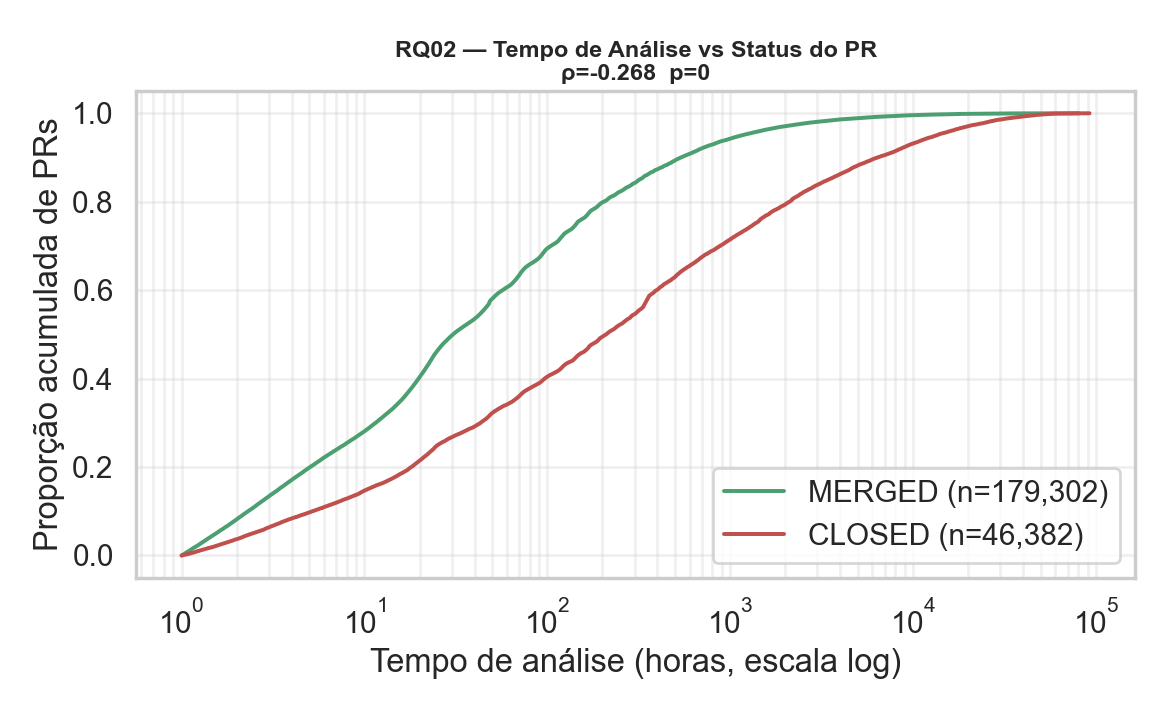
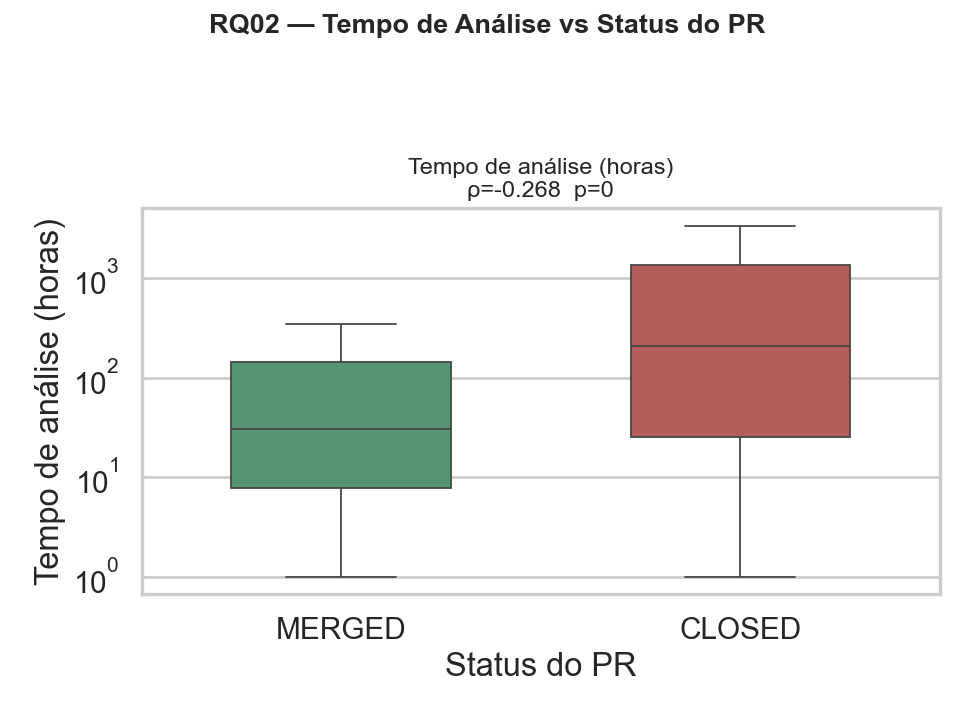
novos plots

Changed region(s): [[0.0308, 0.0, 0.9846, 0.9538], [0.5231, 0.4308, 0.5538, 0.4615], [0.4923, 0.4615, 0.5231, 0.4923]]

diff --git a/Laboratorios/Lab-03/plots_rqs.py b/Laboratorios/Lab-03/plots_rqs.py
@@ -1,15 +1,12 @@
 """Lab03S03 - Gráficos para as Questões de Pesquisa (RQ 01 a RQ 08).
 
-Para cada RQ usamos a visualização mais adequada à pergunta:
+Dois padrões de gráfico, escolhidos pela legibilidade:
 
-  RQ 01 (Tamanho × Status)        -> violin plot   (compara distribuições completas)
-  RQ 02 (Tempo × Status)          -> ECDF          (compara distribuições acumuladas)
-  RQ 03 (Descrição × Status)      -> histograma sobreposto + KDE
-  RQ 04 (Interações × Status)     -> taxa de merge por faixa (barplot)
-  RQ 05 (Tamanho × Nº Revisões)   -> lineplot mediana + banda IQR
-  RQ 06 (Tempo × Nº Revisões)     -> hexbin + linha de mediana
-  RQ 07 (Descrição × Nº Revisões) -> barplot horizontal das medianas por faixa
-  RQ 08 (Interações × Nº Revisões)-> heatmap (participantes × revisões)
+  RQ 01-04 (status do PR):
+      Boxplot MERGED vs CLOSED para cada métrica (escala log onde aplicável).
+
+  RQ 05-08 (nº de revisões):
+      Lineplot da mediana com banda IQR (Q1-Q3) por faixa de reviews_count.
 
 Lê `data/dataset_prs.csv` e (opcional) `data/rqs_correlacoes.csv` para
 anotar ρ de Spearman e p-valor nos títulos.
@@ -30,6 +27,32 @@ INPUT_CSV = DATA_DIR / "dataset_prs.csv"
 CORR_CSV = DATA_DIR / "rqs_correlacoes.csv"
 
 PALETTE_STATUS = {"MERGED": "#4c9f70", "CLOSED": "#c0504d"}
+
+# (metrica, label, log_y)
+M_TAMANHO = [
+    ("files_changed", "Arquivos alterados", True),
+    ("additions",     "Linhas adicionadas", True),
+    ("deletions",     "Linhas removidas",   True),
+]
+M_TEMPO       = [("analysis_time_hours", "Tempo de análise (horas)", True)]
+M_DESCRICAO   = [("body_length",         "Caracteres na descrição",  True)]
+M_INTERACOES  = [
+    ("participants", "Participantes", False),
+    ("comments",     "Comentários",   True),
+]
+
+RQS_STATUS = [
+    ("RQ01", "Tamanho",          M_TAMANHO),
+    ("RQ02", "Tempo de Análise", M_TEMPO),
+    ("RQ03", "Descrição",        M_DESCRICAO),
+    ("RQ04", "Interações",       M_INTERACOES),
+]
+RQS_REVIEWS = [
+    ("RQ05", "Tamanho",          M_TAMANHO),
+    ("RQ06", "Tempo de Análise", M_TEMPO),
+    ("RQ07", "Descrição",        M_DESCRICAO),
+    ("RQ08", "Interações",       M_INTERACOES),
+]
 
 
 def carrega_dataset(path):
@@ -62,10 +85,8 @@ def faixas_reviews(s):
     return pd.cut(s, bins=bins, labels=labels, right=True, include_lowest=True)
 
 
-# ----------------------------- Overview --------------------------------------
-
 def plot_overview_status(df, out_dir):
-    fig, ax = plt.subplots(figsize=(6, 4))
+    fig, ax = plt.subplots(figsize=(6.5, 4.5))
     counts = df["status_label"].value_counts().reindex(["MERGED", "CLOSED"])
     bars = ax.bar(counts.index, counts.values,
                   color=[PALETTE_STATUS["MERGED"], PALETTE_STATUS["CLOSED"]])
@@ -84,261 +105,71 @@ def plot_overview_status(df, out_dir):
     print(f"  -> {out_path.name}")
 
 
-# ----------------------------- RQ 01: violin ---------------------------------
-
-def plot_rq01_violin(df, corr_df, out_dir):
-    metricas = [
-        ("files_changed", "Arquivos alterados"),
-        ("additions",     "Linhas adicionadas"),
-        ("deletions",     "Linhas removidas"),
-    ]
-    fig, axes = plt.subplots(1, 3, figsize=(16, 5.5))
-    for ax, (col, label) in zip(axes, metricas):
+def plot_status(df, rq, dimensao, metricas, corr_df, out_dir):
+    n = len(metricas)
+    width = max(7.5, 5.8 * n)
+    fig, axes = plt.subplots(1, n, figsize=(width, 5.5), squeeze=False)
+    for ax, (col, label, logscale) in zip(axes[0], metricas):
         sub = df[[col, "status_label"]].copy()
-        sub = sub[sub[col] > 0]
-        sub["log"] = np.log10(sub[col])
-        sns.violinplot(
-            data=sub, x="status_label", y="log", ax=ax,
-            order=["MERGED", "CLOSED"], hue="status_label",
-            legend=False, palette=PALETTE_STATUS,
-            inner="quartile", cut=0,
+        if logscale:
+            sub = sub[sub[col] > 0]
+        sns.boxplot(
+            data=sub, x="status_label", y=col, ax=ax,
+            order=["MERGED", "CLOSED"], hue="status_label", legend=False,
+            palette=PALETTE_STATUS, showfliers=False, width=0.55,
         )
+        if logscale:
+            ax.set_yscale("log")
         ax.set_xlabel("Status do PR")
-        ax.set_ylabel(f"log10({label})")
-        ax.set_title(f"{label}{rho_label(corr_df, 'RQ01', col)}", fontsize=13)
-    fig.suptitle("RQ01 — Tamanho vs Status do PR", fontsize=15, fontweight="bold")
-    fig.tight_layout(rect=[0, 0, 1, 0.93])
-    out = out_dir / "rq01_tamanho_status.png"
-    fig.savefig(out, dpi=130); plt.close(fig); print(f"  -> {out.name}")
-
-
-# ----------------------------- RQ 02: ECDF -----------------------------------
-
-def plot_rq02_ecdf(df, corr_df, out_dir):
-    fig, ax = plt.subplots(figsize=(9, 5.5))
-    sub = df[df["analysis_time_hours"] > 0].copy()
-    for status, color in PALETTE_STATUS.items():
-        x = np.sort(sub.loc[sub["status_label"] == status, "analysis_time_hours"].values)
-        y = np.arange(1, len(x) + 1) / len(x)
-        ax.plot(x, y, label=f"{status} (n={len(x):,})", color=color, lw=2.2)
-    ax.set_xscale("log")
-    ax.set_xlabel("Tempo de análise (horas, escala log)")
-    ax.set_ylabel("Proporção acumulada de PRs")
-    ax.set_title(
-        f"RQ02 — Tempo de Análise vs Status do PR{rho_label(corr_df, 'RQ02', 'analysis_time_hours')}",
-        fontsize=13, fontweight="bold",
-    )
-    ax.legend(loc="lower right")
-    ax.grid(True, which="both", alpha=0.3)
-    fig.tight_layout()
-    out = out_dir / "rq02_tempo_de_análise_status.png"
-    fig.savefig(out, dpi=130); plt.close(fig); print(f"  -> {out.name}")
-
-
-# ----------------------------- RQ 03: histograma -----------------------------
-
-def plot_rq03_hist(df, corr_df, out_dir):
-    fig, ax = plt.subplots(figsize=(9, 5.5))
-    sub = df[df["body_length"] > 0].copy()
-    sub["log_body"] = np.log10(sub["body_length"])
-    for status, color in PALETTE_STATUS.items():
-        data = sub.loc[sub["status_label"] == status, "log_body"]
-        ax.hist(data, bins=50, density=True, alpha=0.45,
-                label=f"{status} (mediana={int(10**data.median())})",
-                color=color)
-    ax.set_xlabel("log10(caracteres na descrição)")
-    ax.set_ylabel("Densidade")
-    ax.set_title(
-        f"RQ03 — Descrição vs Status do PR{rho_label(corr_df, 'RQ03', 'body_length')}",
-        fontsize=13, fontweight="bold",
-    )
-    ax.legend()
-    fig.tight_layout()
-    out = out_dir / "rq03_descrição_status.png"
-    fig.savefig(out, dpi=130); plt.close(fig); print(f"  -> {out.name}")
-
-
-# ----------------------------- RQ 04: taxa de merge --------------------------
-
-def plot_rq04_taxa_merge(df, corr_df, out_dir):
-    """Taxa de merge por faixa de participantes / comentários."""
-    df = df.copy()
-    df["merged"] = (df["state"] == "MERGED").astype(int)
-
-    bins_part = [0, 1, 2, 3, 5, 10, np.inf]
-    lab_part = ["1", "2", "3", "4-5", "6-10", "11+"]
-    df["faixa_part"] = pd.cut(df["participants"], bins=bins_part,
-                              labels=lab_part, include_lowest=True)
-    df["faixa_com"] = pd.cut(df["comments"], bins=[-1, 0, 1, 3, 5, 10, np.inf],
-                             labels=["0", "1", "2-3", "4-5", "6-10", "11+"])
-
-    fig, axes = plt.subplots(1, 2, figsize=(14, 5.5))
-    for ax, faixa_col, xlabel, rq_metric in [
-        (axes[0], "faixa_part", "Nº de participantes",  "participants"),
-        (axes[1], "faixa_com",  "Nº de comentários",    "comments"),
-    ]:
-        agg = df.groupby(faixa_col, observed=True).agg(
-            taxa=("merged", "mean"),
-            n=("merged", "size"),
-        ).reset_index()
-        bars = ax.bar(agg[faixa_col].astype(str), agg["taxa"] * 100,
-                      color="#4c9f70", edgecolor="white")
-        for b, taxa, n in zip(bars, agg["taxa"], agg["n"]):
-            ax.text(b.get_x() + b.get_width() / 2, taxa * 100 + 1,
-                    f"{taxa:.0%}\n(n={n:,})",
-                    ha="center", va="bottom", fontsize=9)
-        ax.set_ylim(0, 105)
-        ax.set_xlabel(xlabel)
-        ax.set_ylabel("% de PRs com MERGE")
-        ax.set_title(f"{xlabel}{rho_label(corr_df, 'RQ04', rq_metric)}", fontsize=13)
-    fig.suptitle("RQ04 — Interações vs Status do PR (taxa de merge)",
+        ax.set_ylabel(label)
+        ax.set_title(f"{label}{rho_label(corr_df, rq, col)}", fontsize=13)
+    fig.suptitle(f"{rq} — {dimensao} vs Status do PR",
                  fontsize=15, fontweight="bold")
-    fig.tight_layout(rect=[0, 0, 1, 0.93])
-    out = out_dir / "rq04_interações_status.png"
-    fig.savefig(out, dpi=130); plt.close(fig); print(f"  -> {out.name}")
+    fig.tight_layout(rect=[0, 0, 1, 0.92])
+    out = out_dir / f"{rq.lower()}_{dimensao.lower().replace(' ', '_')}_status.png"
+    fig.savefig(out, dpi=130)
+    plt.close(fig)
+    print(f"  -> {out.name}")
 
 
-# ----------------------------- RQ 05: linha + IQR ----------------------------
-
-def plot_rq05_linha_iqr(df, corr_df, out_dir):
+def plot_reviews(df, rq, dimensao, metricas, corr_df, out_dir):
     df = df.copy()
     df["faixa"] = faixas_reviews(df["reviews_count"])
     df = df.dropna(subset=["faixa"])
-    metricas = [
-        ("files_changed", "Arquivos alterados"),
-        ("additions",     "Linhas adicionadas"),
-        ("deletions",     "Linhas removidas"),
-    ]
-    fig, axes = plt.subplots(1, 3, figsize=(16, 5.5))
-    for ax, (col, label) in zip(axes, metricas):
-        agg = df.groupby("faixa", observed=True)[col].quantile(
-            [0.25, 0.5, 0.75]).unstack()
+
+    n = len(metricas)
+    width = max(7.5, 5.8 * n)
+    fig, axes = plt.subplots(1, n, figsize=(width, 5.5), squeeze=False)
+    for ax, (col, label, logscale) in zip(axes[0], metricas):
+        agg = (df.groupby("faixa", observed=True)[col]
+                 .quantile([0.25, 0.5, 0.75]).unstack())
         agg.columns = ["q25", "q50", "q75"]
         x = np.arange(len(agg))
         ax.fill_between(x, agg["q25"], agg["q75"],
                         alpha=0.3, color="#4878a6", label="IQR (Q1–Q3)")
-        ax.plot(x, agg["q50"], "o-", color="#1f3a5f", lw=2.5,
-                markersize=8, label="Mediana")
+        ax.plot(x, agg["q50"], "o-", color="#1f3a5f",
+                lw=2.5, markersize=8, label="Mediana")
+        for xi, m in zip(x, agg["q50"]):
+            ax.annotate(f"{m:.0f}", (xi, m),
+                        textcoords="offset points", xytext=(0, 9),
+                        ha="center", fontsize=9, color="#1f3a5f")
         ax.set_xticks(x)
         ax.set_xticklabels(agg.index)
-        ax.set_yscale("log")
+        if logscale:
+            ax.set_yscale("log")
         ax.set_xlabel("Número de revisões")
         ax.set_ylabel(label)
-        ax.set_title(f"{label}{rho_label(corr_df, 'RQ05', col)}", fontsize=13)
+        ax.set_title(f"{label}{rho_label(corr_df, rq, col)}", fontsize=13)
         ax.legend(loc="upper left", fontsize=9)
         ax.grid(True, which="both", alpha=0.3)
-    fig.suptitle("RQ05 — Tamanho vs Nº de Revisões",
+    fig.suptitle(f"{rq} — {dimensao} vs Nº de Revisões",
                  fontsize=15, fontweight="bold")
-    fig.tight_layout(rect=[0, 0, 1, 0.93])
-    out = out_dir / "rq05_tamanho_reviews.png"
-    fig.savefig(out, dpi=130); plt.close(fig); print(f"  -> {out.name}")
+    fig.tight_layout(rect=[0, 0, 1, 0.92])
+    out = out_dir / f"{rq.lower()}_{dimensao.lower().replace(' ', '_')}_reviews.png"
+    fig.savefig(out, dpi=130)
+    plt.close(fig)
+    print(f"  -> {out.name}")
 
-
-# ----------------------------- RQ 06: hexbin ---------------------------------
-
-def plot_rq06_hexbin(df, corr_df, out_dir):
-    sub = df[(df["analysis_time_hours"] > 0) & (df["reviews_count"] > 0)].copy()
-    sub["log_time"] = np.log10(sub["analysis_time_hours"])
-    sub["log_rev"] = np.log10(sub["reviews_count"])
-
-    fig, ax = plt.subplots(figsize=(9, 6))
-    hb = ax.hexbin(sub["log_rev"], sub["log_time"],
-                   gridsize=40, cmap="viridis", mincnt=1, bins="log")
-    cbar = fig.colorbar(hb, ax=ax)
-    cbar.set_label("Nº de PRs (escala log)")
-
-    # linha de mediana por faixa
-    sub["faixa"] = faixas_reviews(sub["reviews_count"])
-    med = sub.groupby("faixa", observed=True).agg(
-        x=("log_rev", "median"),
-        y=("log_time", "median"),
-    ).reset_index()
-    ax.plot(med["x"], med["y"], "o-", color="#ff6b35",
-            lw=2.5, markersize=9, label="Mediana por faixa")
-
-    ax.set_xlabel("log10(número de revisões)")
-    ax.set_ylabel("log10(tempo de análise em horas)")
-    ax.set_title(
-        f"RQ06 — Tempo de Análise vs Nº de Revisões"
-        f"{rho_label(corr_df, 'RQ06', 'analysis_time_hours')}",
-        fontsize=13, fontweight="bold",
-    )
-    ax.legend(loc="upper left")
-    fig.tight_layout()
-    out = out_dir / "rq06_tempo_de_análise_reviews.png"
-    fig.savefig(out, dpi=130); plt.close(fig); print(f"  -> {out.name}")
-
-
-# ----------------------------- RQ 07: barplot horizontal ---------------------
-
-def plot_rq07_barh(df, corr_df, out_dir):
-    df = df.copy()
-    df["faixa"] = faixas_reviews(df["reviews_count"])
-    df = df.dropna(subset=["faixa"])
-    agg = df.groupby("faixa", observed=True)["body_length"].agg(
-        mediana="median", media="mean", n="size").reset_index()
-
-    fig, ax = plt.subplots(figsize=(9, 5.5))
-    y = np.arange(len(agg))
-    h = 0.38
-    ax.barh(y - h/2, agg["mediana"], h, label="Mediana",
-            color="#4878a6", edgecolor="white")
-    ax.barh(y + h/2, agg["media"],   h, label="Média",
-            color="#a0c4e0", edgecolor="white")
-    for yi, med, mean, n in zip(y, agg["mediana"], agg["media"], agg["n"]):
-        ax.text(med, yi - h/2, f" {int(med)}", va="center", fontsize=9)
-        ax.text(mean, yi + h/2, f" {int(mean)} (n={n:,})", va="center", fontsize=9)
-    ax.set_yticks(y)
-    ax.set_yticklabels(agg["faixa"])
-    ax.invert_yaxis()
-    ax.set_xlabel("Caracteres na descrição")
-    ax.set_ylabel("Número de revisões")
-    ax.set_title(
-        f"RQ07 — Descrição vs Nº de Revisões"
-        f"{rho_label(corr_df, 'RQ07', 'body_length')}",
-        fontsize=13, fontweight="bold",
-    )
-    ax.legend(loc="lower right")
-    fig.tight_layout()
-    out = out_dir / "rq07_descrição_reviews.png"
-    fig.savefig(out, dpi=130); plt.close(fig); print(f"  -> {out.name}")
-
-
-# ----------------------------- RQ 08: heatmap --------------------------------
-
-def plot_rq08_heatmap(df, corr_df, out_dir):
-    df = df.copy()
-    df["faixa_rev"] = faixas_reviews(df["reviews_count"])
-    df["faixa_com"] = pd.cut(df["comments"], bins=[-1, 0, 1, 3, 5, 10, np.inf],
-                             labels=["0", "1", "2-3", "4-5", "6-10", "11+"])
-    df["faixa_part"] = pd.cut(df["participants"],
-                              bins=[0, 1, 2, 3, 5, 10, np.inf],
-                              labels=["1", "2", "3", "4-5", "6-10", "11+"],
-                              include_lowest=True)
-
-    fig, axes = plt.subplots(1, 2, figsize=(14, 5.5))
-    for ax, fcol, xlabel, rq_metric in [
-        (axes[0], "faixa_part", "Nº de participantes", "participants"),
-        (axes[1], "faixa_com",  "Nº de comentários",   "comments"),
-    ]:
-        ct = pd.crosstab(df[fcol], df["faixa_rev"])
-        # normaliza por linha (quanto a faixa de interação se distribui em revisões)
-        ct_pct = (ct.div(ct.sum(axis=1), axis=0) * 100).round(1)
-        sns.heatmap(ct_pct, annot=True, fmt=".0f", cmap="YlOrRd",
-                    cbar_kws={"label": "% de PRs na linha"}, ax=ax,
-                    linewidths=0.4, linecolor="white")
-        ax.set_xlabel("Número de revisões")
-        ax.set_ylabel(xlabel)
-        ax.set_title(f"{xlabel}{rho_label(corr_df, 'RQ08', rq_metric)}",
-                     fontsize=13)
-    fig.suptitle("RQ08 — Interações vs Nº de Revisões",
-                 fontsize=15, fontweight="bold")
-    fig.tight_layout(rect=[0, 0, 1, 0.93])
-    out = out_dir / "rq08_interações_reviews.png"
-    fig.savefig(out, dpi=130); plt.close(fig); print(f"  -> {out.name}")
-
-
-# ----------------------------- main ------------------------------------------
 
 def main():
     parser = argparse.ArgumentParser(description="Gráficos das RQs do Lab-03.")
@@ -356,14 +187,12 @@ def main():
 
     print(f"Dataset: {len(df):,} PRs.")
     plot_overview_status(df, out_dir)
-    plot_rq01_violin(df, corr_df, out_dir)
-    plot_rq02_ecdf(df, corr_df, out_dir)
-    plot_rq03_hist(df, corr_df, out_dir)
-    plot_rq04_taxa_merge(df, corr_df, out_dir)
-    plot_rq05_linha_iqr(df, corr_df, out_dir)
-    plot_rq06_hexbin(df, corr_df, out_dir)
-    plot_rq07_barh(df, corr_df, out_dir)
-    plot_rq08_heatmap(df, corr_df, out_dir)
+    print("Gerando RQ 01-04 (boxplots por status)...")
+    for rq, dim, metricas in RQS_STATUS:
+        plot_status(df, rq, dim, metricas, corr_df, out_dir)
+    print("Gerando RQ 05-08 (mediana + IQR por nº revisões)...")
+    for rq, dim, metricas in RQS_REVIEWS:
+        plot_reviews(df, rq, dim, metricas, corr_df, out_dir)
     print(f"\nFiguras salvas em {out_dir}")
 
 
